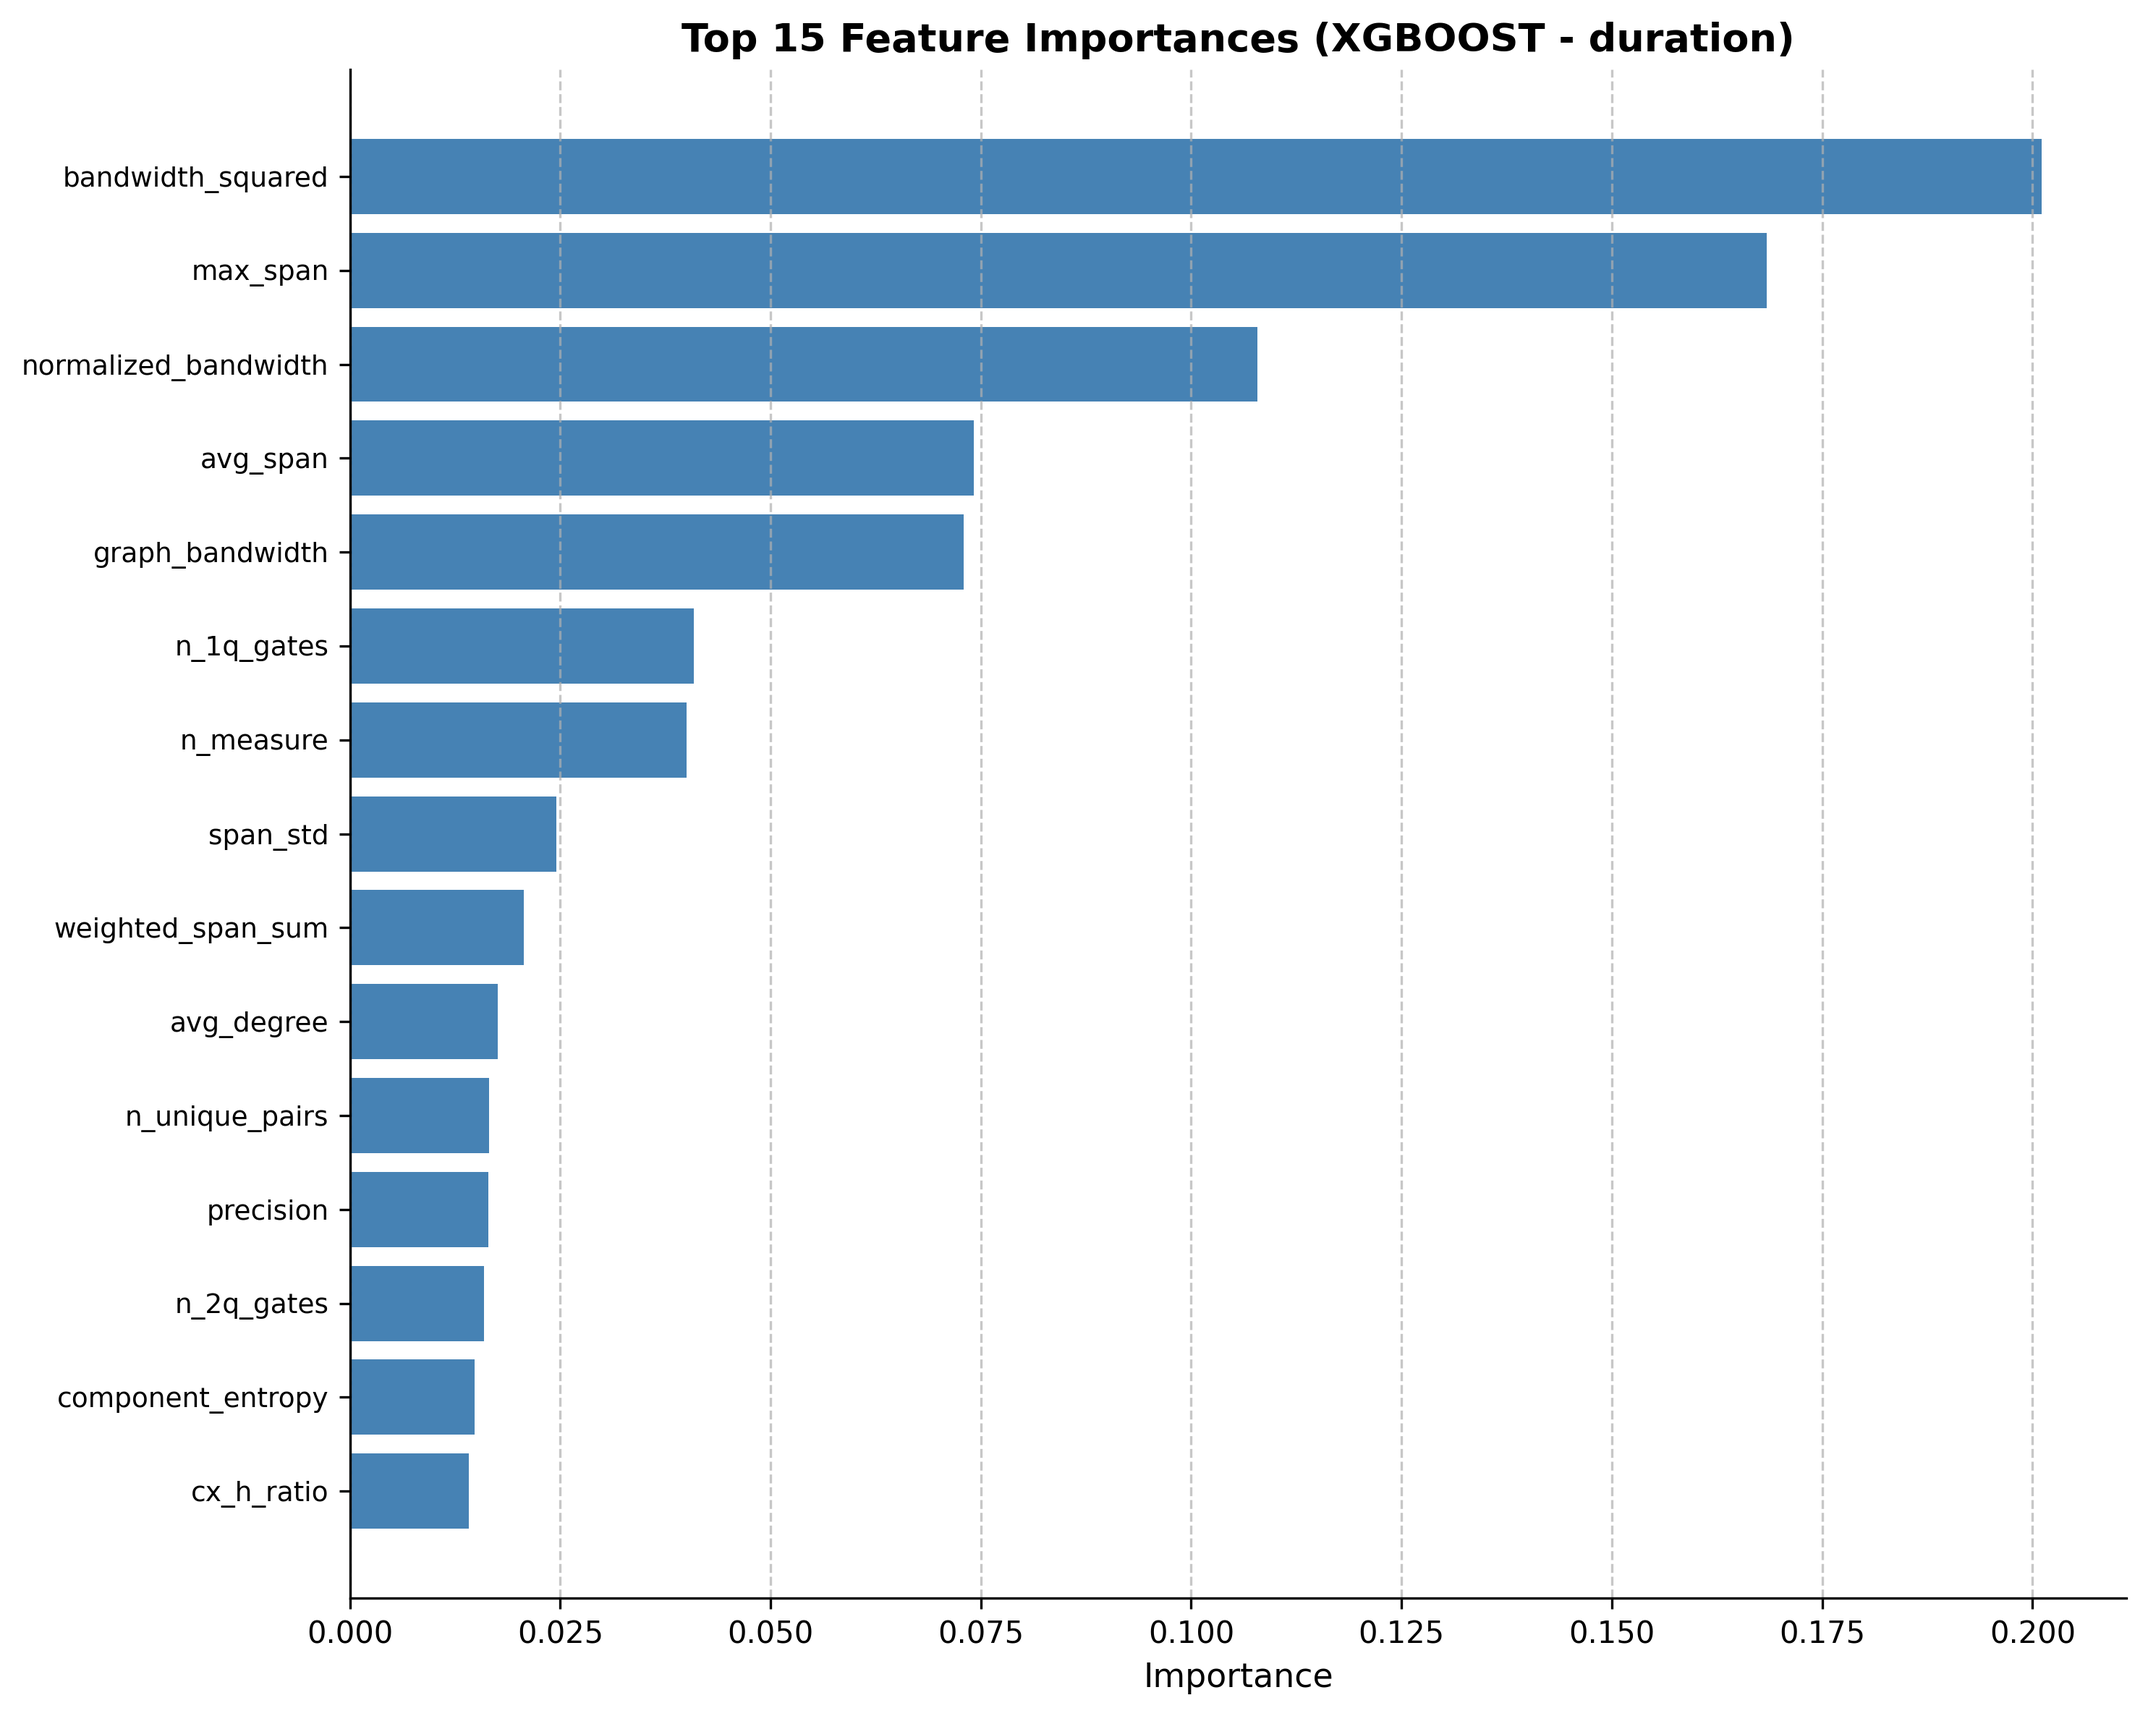
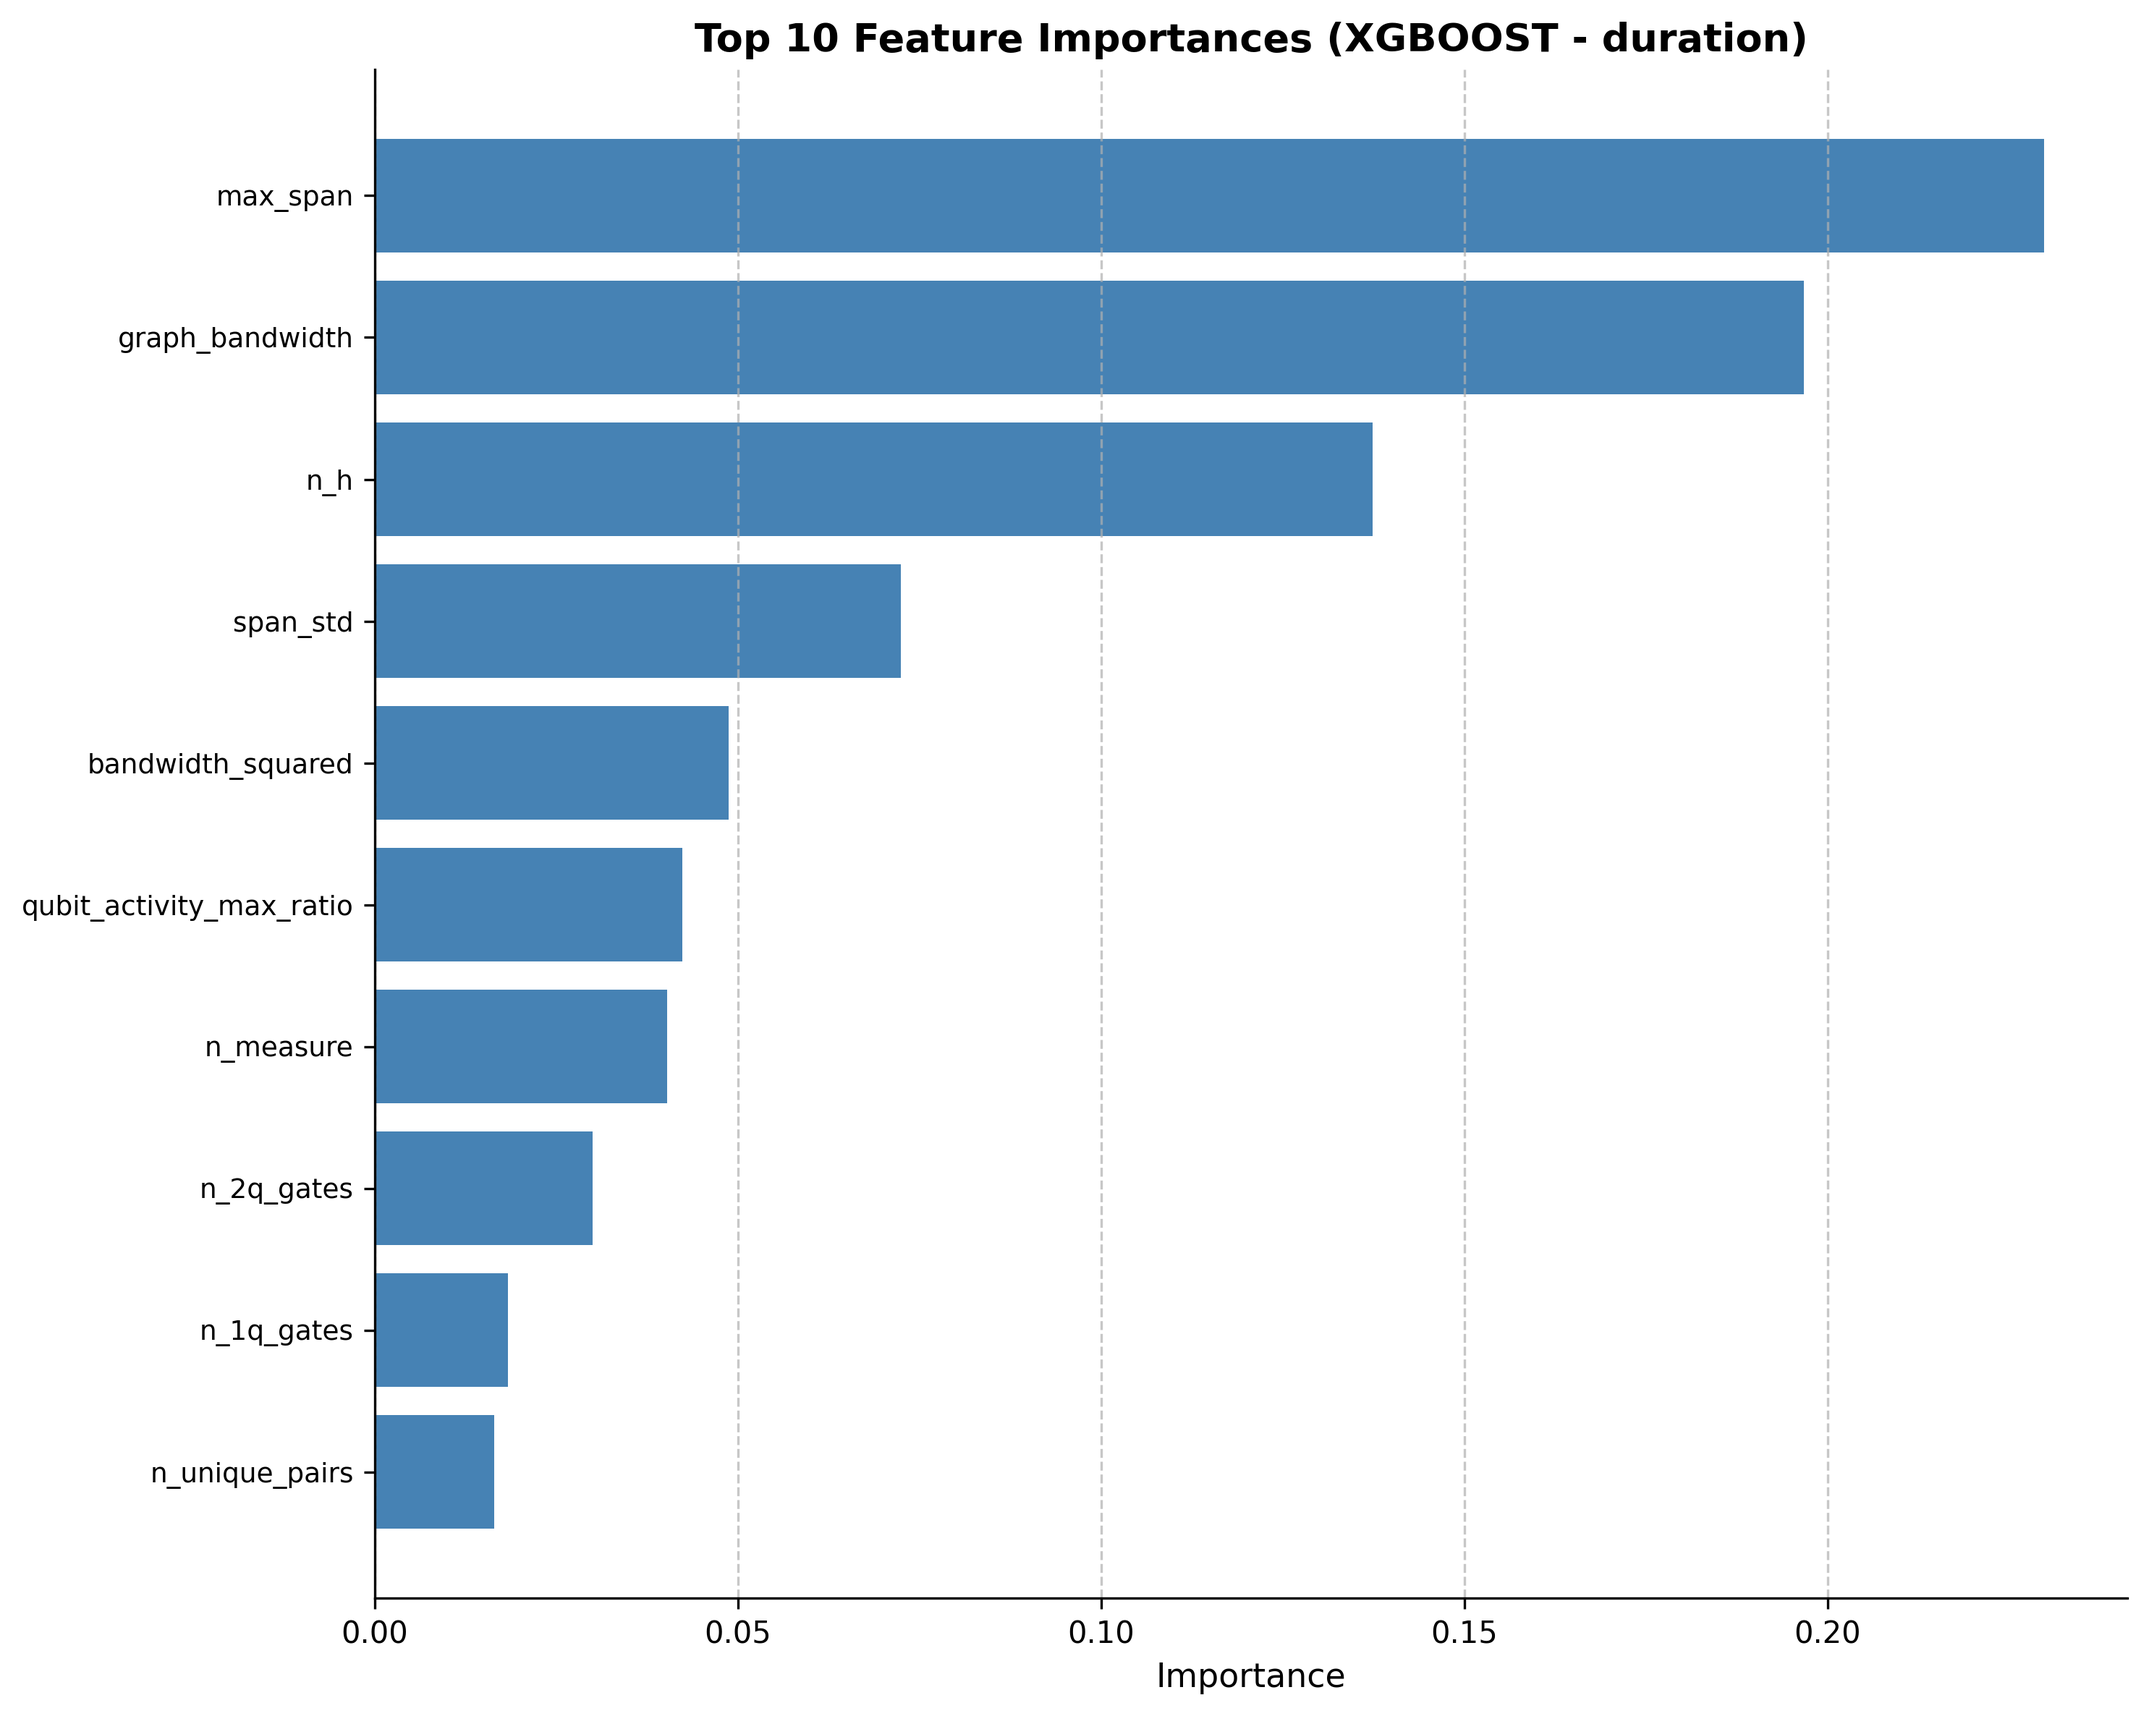
fix

diff --git a/scripts/compare_graph_models.py b/scripts/compare_graph_models.py
@@ -241,12 +241,13 @@ def run_single_experiment_duration(
     true_thresh = np.array(true_thresh)
     true_runtime = np.array(true_runtime)
     
-    challenge_score = compute_challenge_score(
-        threshold_pred=pred_thresh,
-        threshold_true=true_thresh,
-        runtime_pred=pred_runtime,
-        runtime_true=true_runtime,
+    score_result = compute_challenge_score(
+        pred_threshold=pred_thresh,
+        true_threshold=true_thresh,
+        pred_runtime=pred_runtime,
+        true_runtime=true_runtime,
     )
+    challenge_score = score_result.get("overall_score", score_result.get("mean_score", 0.0))
     
     n_params = sum(p.numel() for p in model.parameters())
     

diff --git a/scripts/visualize_feature_importance.py b/scripts/visualize_feature_importance.py
@@ -62,9 +62,10 @@ def plot_feature_importance(
     
     ax.barh(range(len(top_names)), top_importances, color="steelblue")
     ax.set_yticks(range(len(top_names)))
-    ax.set_yticklabels(top_names, fontsize=9)
-    ax.set_xlabel("Importance", fontsize=11)
-    ax.set_title(title, fontsize=13, fontweight="bold")
+    ax.set_yticklabels(top_names, fontsize=12)
+    ax.set_xlabel("Importance", fontsize=14)
+    ax.set_title(title, fontsize=16, fontweight="bold")
+    ax.tick_params(axis="x", labelsize=12)
     ax.xaxis.grid(True, linestyle="--", alpha=0.7)
     
     ax.spines["top"].set_visible(False)
